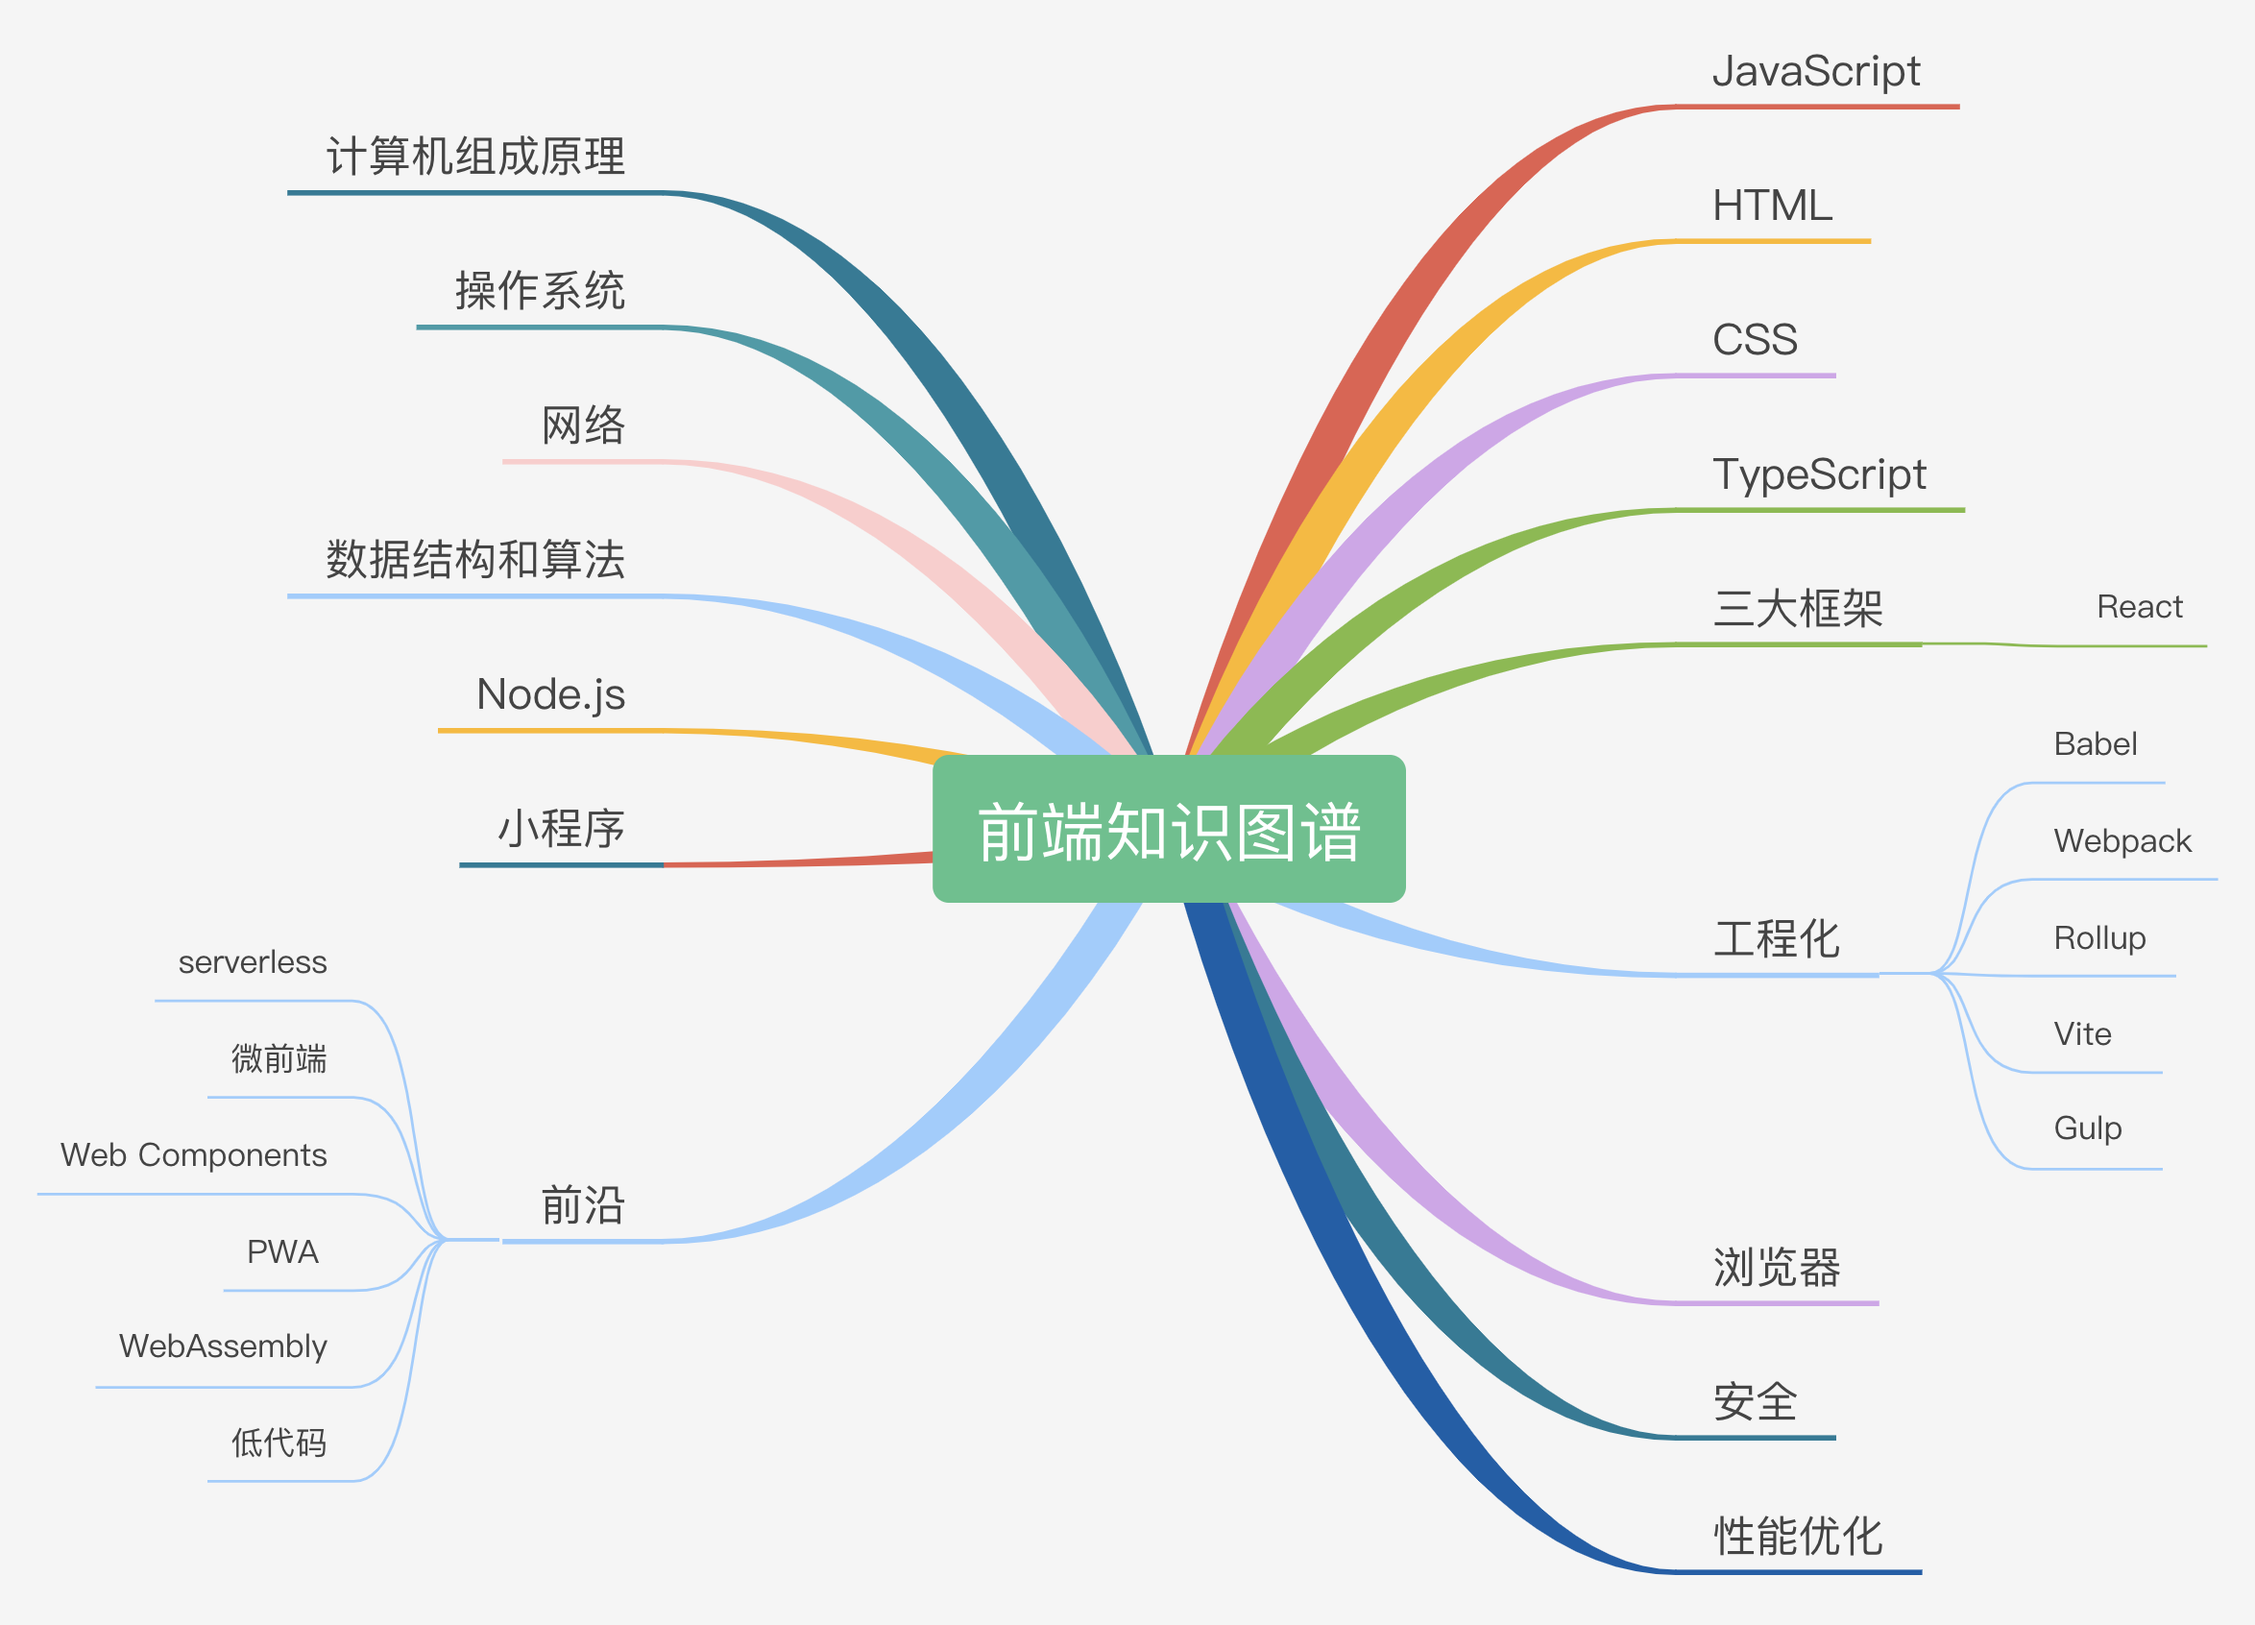
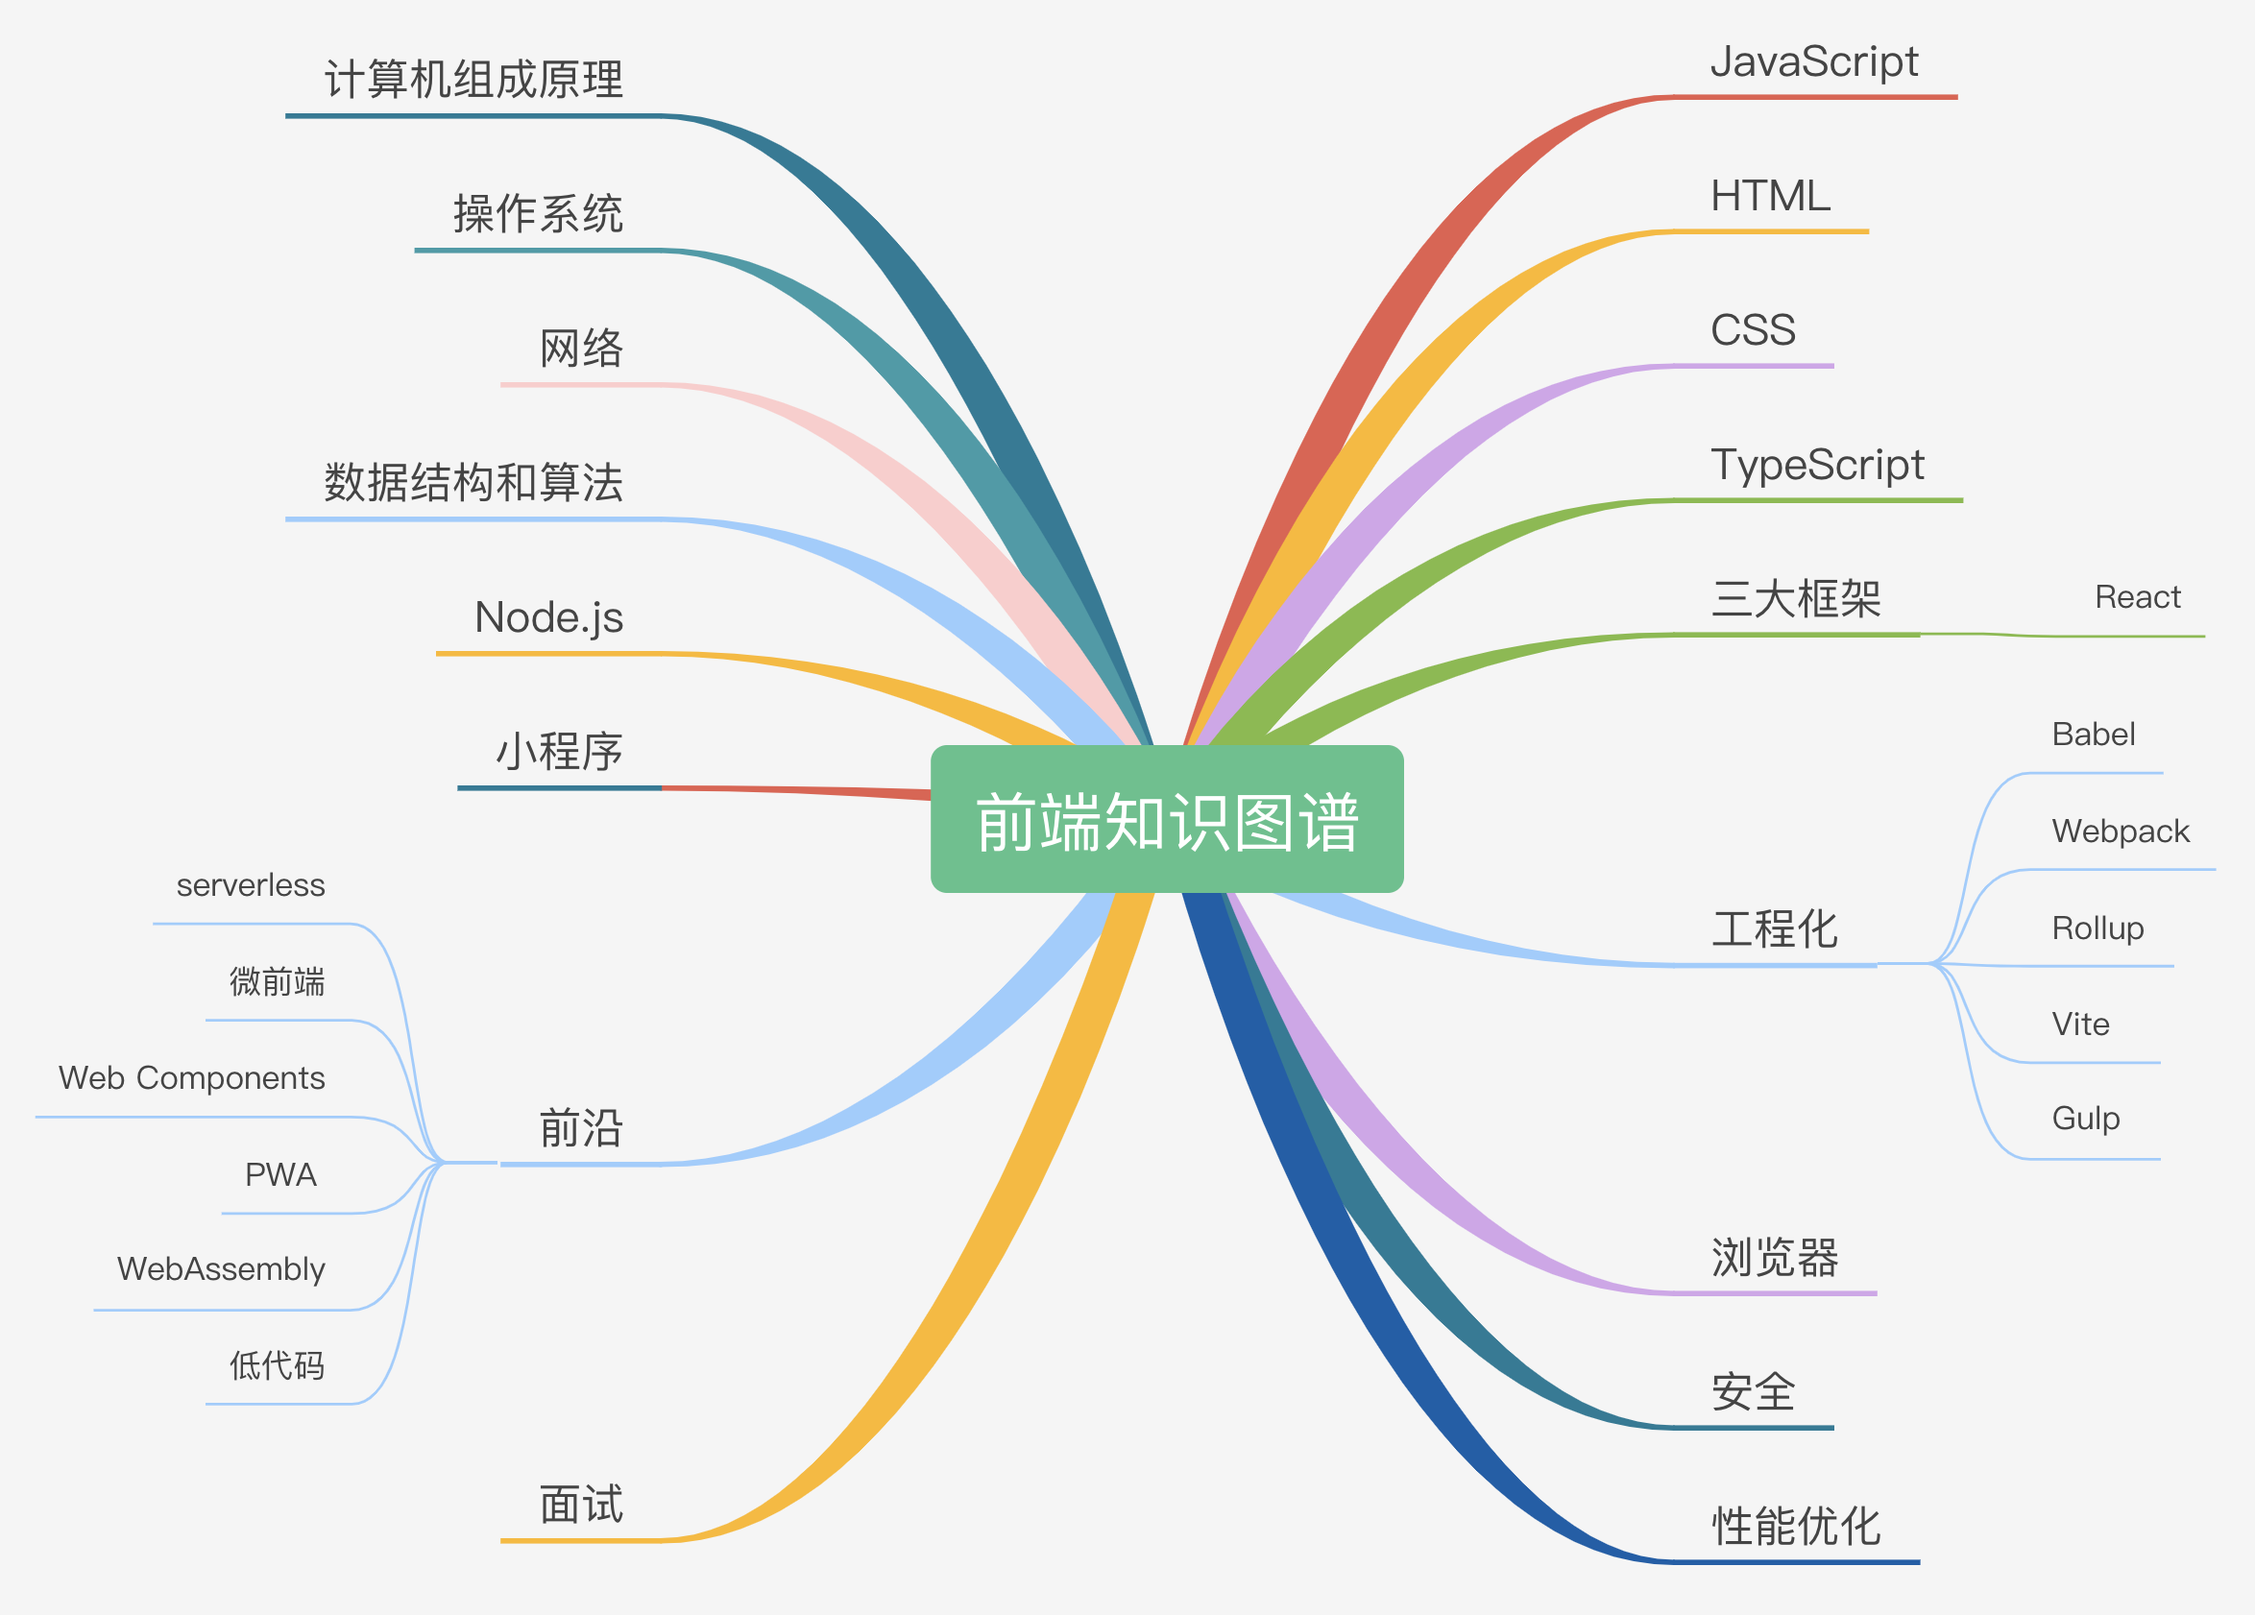
feat: 添加【简历】项

diff --git a/docs/index.html b/docs/index.html
@@ -25,7 +25,7 @@
         auto2top: true,
         search: "auto",
         alias: {
-          "/(javascript|html|css|typescript|browser|miniprogram|network|security|performance-optimization|cutting-edge|framework/react|engineering/babel|engineering/webpack|data-structure-and-algorithm)":
+          "/(javascript|html|css|typescript|browser|miniprogram|network|security|performance-optimization|cutting-edge|framework/react|engineering/babel|engineering/webpack|data-structure-and-algorithm|interview)":
             "$1/index",
         },
       };

diff --git a/docs/interview/index.md b/docs/interview/index.md
@@ -1,0 +1,13 @@
+## 简历
+
+**简历要突出重点**
+
+一般简历分为四个部分：基本信息，个人技能，工作经历，项目经历
+
+个人技能和项目经历抓住一个重点好好写就行
+
+see [https://littleprincewdk.github.io/resume](https://littleprincewdk.github.io/resume/)
+
+## 反问环节
+
+必问环节，可以提前准备问题：团队，公司，氛围，成长。。。，突出你对岗位的上心

diff --git a/docs/_sidebar.md b/docs/_sidebar.md
@@ -51,3 +51,5 @@
 - 小程序
 
 - [前沿](cutting-edge)
+
+- [面试](interview)
